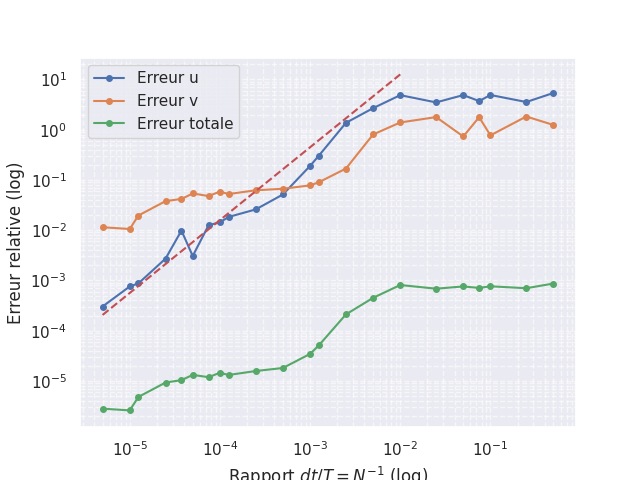
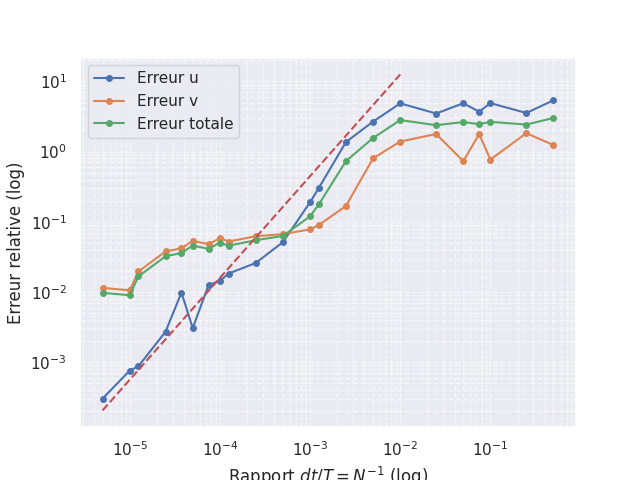
complexity

diff --git a/Python_plot/convergence.py b/Python_plot/convergence.py
@@ -29,7 +29,7 @@ errors = np.zeros(n_h-1)
 for i in range(1, n_h):
     errors_u[i-1] = np.linalg.norm(datas[i][:,:2] - data_ref[:,:2]) / np.linalg.norm(data_ref[:,:2]) # Erreur relative sur le déplacement
     errors_v[i-1] = np.linalg.norm(datas[i][:,2:] - data_ref[:,2:]) / np.linalg.norm(data_ref[:,2:]) # Erreur relative sur la vitesse
-    errors[i-1] = np.linalg.norm(datas[i] - data_ref) # Erreur absolue
+    errors[i-1] = np.linalg.norm(datas[i] - data_ref) / np.linalg.norm(data_ref) # Erreur absolue
     #print(f'Erreur pour dt={dt_range[i]}: {errors[i-1]}')
 
 
